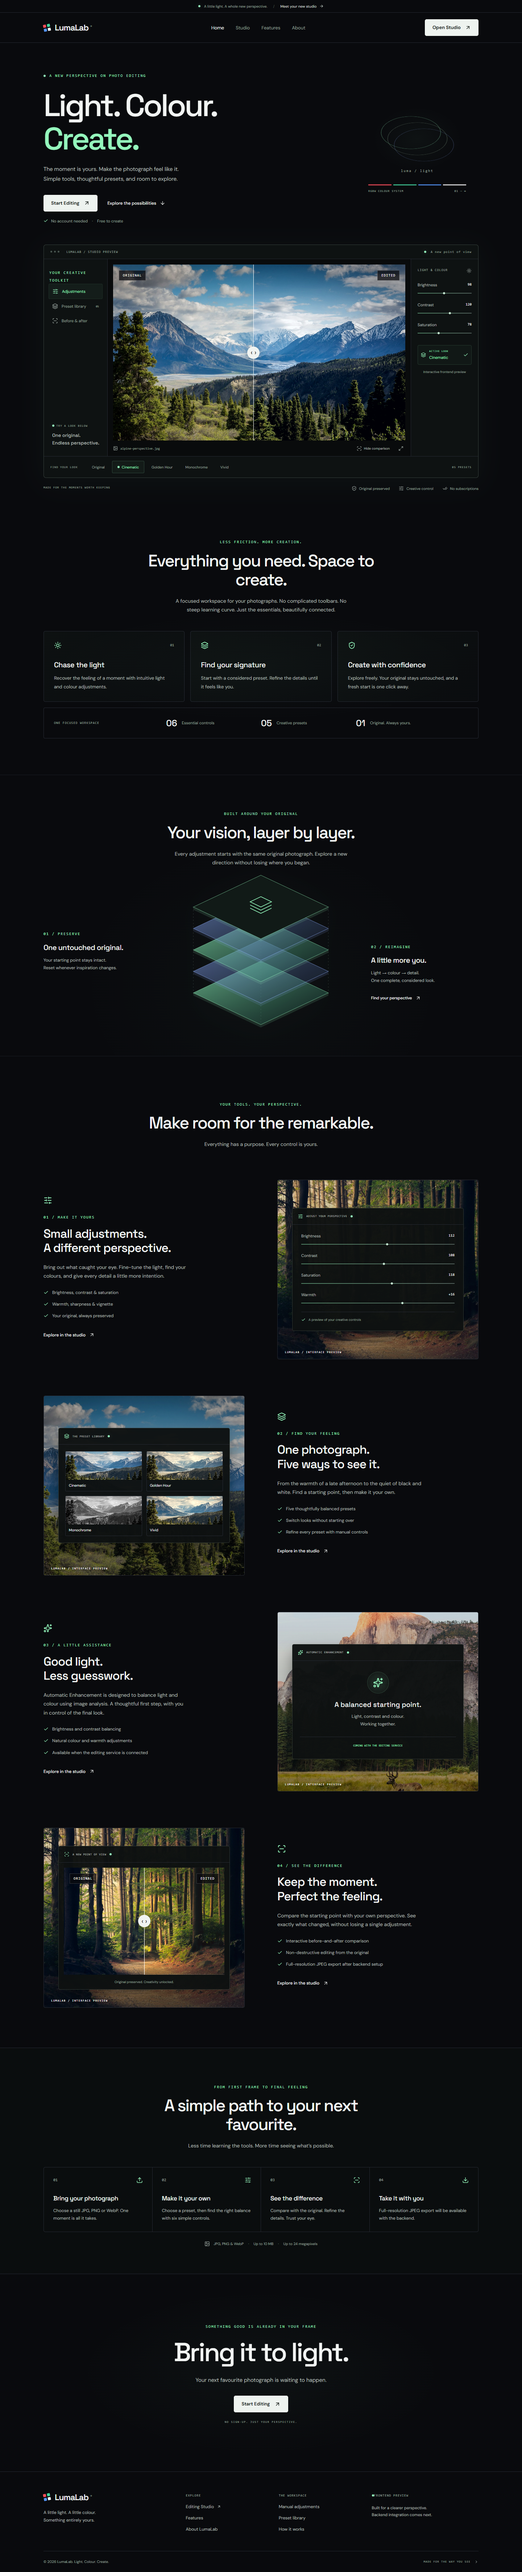
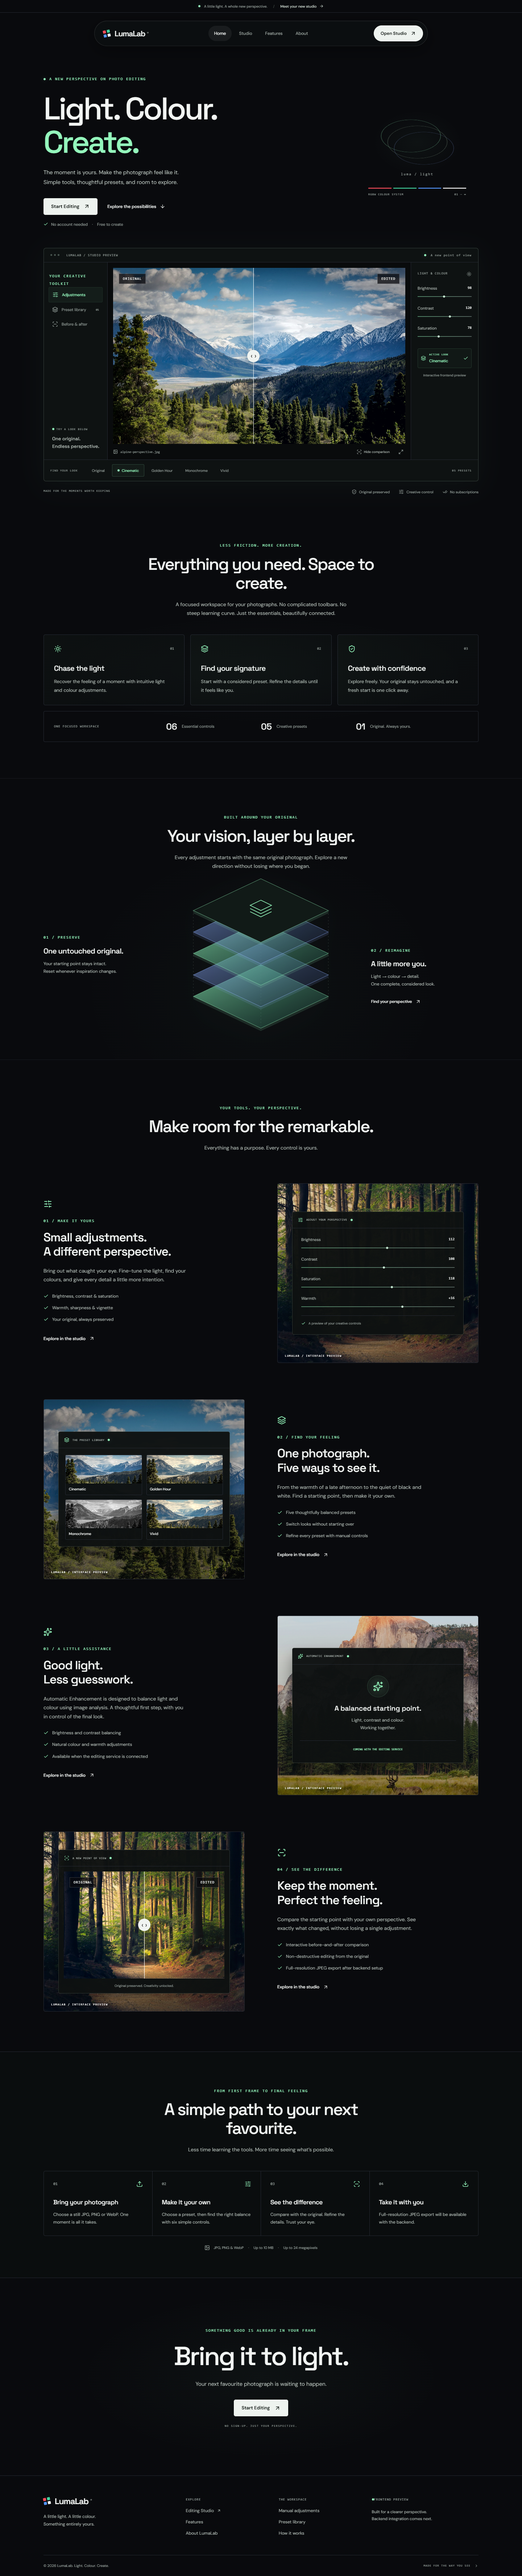
Navigation bar edited

diff --git a/src/components/Shared.module.css b/src/components/Shared.module.css
@@ -1,5 +1,94 @@
 .brand{display:inline-flex;align-items:center;gap:10px;font:600 23px var(--font-heading);letter-spacing:-1px;color:var(--text);white-space:nowrap}.brandDot{font:10px var(--font-body);align-self:flex-start;margin-top:6px;margin-left:-5px;color:var(--muted)}.mark{display:grid;grid-template-columns:repeat(2,8px);gap:3px;transform:rotate(-12deg);margin-right:2px}.mark i{height:8px;border-radius:1px;background:var(--red)}.mark i:nth-child(2){background:var(--green)}.mark i:nth-child(3){background:var(--blue)}.mark i:nth-child(4){background:#fff}
-.header{border-bottom:1px solid var(--border);position:relative;z-index:10}.headerInner{display:flex;align-items:center;justify-content:space-between;min-height:82px;gap:24px}.nav{display:flex;gap:32px;font-size:13px}.nav a{color:var(--muted)}.nav a:hover,.nav a[aria-current=page]{color:var(--text)}.menu,.mobileCta{display:none!important}
+.header {
+  position: sticky;
+  top: max(16px, env(safe-area-inset-top));
+  z-index: 30;
+  width: min(calc(100% - 32px), 920px);
+  margin: 22px auto 0;
+  border: 1px solid #ffffff1a;
+  border-radius: 999px;
+  background: #0b0e10ed;
+  box-shadow: 0 12px 40px #0005, inset 0 1px 0 #ffffff08;
+  -webkit-backdrop-filter: blur(24px) saturate(140%);
+  backdrop-filter: blur(24px) saturate(140%);
+  transition: width 280ms cubic-bezier(.22,1,.36,1), border-radius 220ms ease, background 220ms ease, box-shadow 220ms ease;
+}
+.headerScrolled {
+  width: min(calc(100% - 32px), 860px);
+  background: #080a0cf5;
+  box-shadow: 0 12px 40px #0008, inset 0 1px 0 #ffffff0a;
+}
+.headerInner {
+  display: flex;
+  align-items: center;
+  justify-content: space-between;
+  min-height: 68px;
+  padding: 10px 12px 10px 24px;
+  gap: 22px;
+}
+.header .brand { font-size: 21px; }
+.nav { display: flex; align-items: center; gap: 4px; font-size: 12px; }
+.nav a {
+  display: inline-flex;
+  align-items: center;
+  justify-content: center;
+  min-height: 42px;
+  padding: 10px 16px;
+  border-radius: 999px;
+  color: #aab4ae;
+  transition: color 160ms ease, background 160ms ease;
+}
+.nav a:hover { color: var(--text); background: #ffffff08; }
+.nav a[aria-current] { color: var(--text); background: #ffffff0f; }
+.header .headerCta { border-radius: 999px; min-height: 44px; padding: 11px 18px; font-size: 12px; gap: 10px; }
+.header a:focus-visible, .menu:focus-visible { outline-offset: 3px; }
+.menu, .nav .mobileCta { display: none; }
 .photo{position:relative;isolation:isolate;background:white;width:100%;overflow:hidden;line-height:0}.photoBase{display:block;width:100%;height:auto;position:relative}.photoEdited{position:absolute;inset:0;background:white}.photoEdited img{width:100%;height:100%;object-fit:fill}.vignette{position:absolute;inset:0;background:radial-gradient(ellipse at center,transparent 27%,rgba(0,0,0,.9) 100%);pointer-events:none}.filterDefs{position:absolute;width:0;height:0}.beforeLabel,.afterLabel{position:absolute;top:16px;left:16px;font:10px var(--font-mono);letter-spacing:1px;background:#090a0dbd;line-height:1;padding:8px 10px;border:1px solid #ffffff30;z-index:2}.afterLabel{left:auto;right:16px}.splitLine{position:absolute;top:0;bottom:0;width:1px;background:#fff;pointer-events:none;z-index:2}.splitLine span{position:absolute;left:50%;top:50%;transform:translate(-50%,-50%);border-radius:50%;width:34px;height:34px;display:grid;place-items:center;background:#f0f4f1;color:#111;font:19px var(--font-body);box-shadow:0 3px 20px #0005}.compareRange{appearance:none;position:absolute;inset:0;width:100%;height:100%;margin:0;opacity:0;cursor:ew-resize;z-index:3}.photo:has(.compareRange:focus-visible){outline:3px solid var(--mint);outline-offset:4px}
-@media(max-width:1023px){.menu{display:inline-flex!important}.headerCta{margin-left:auto}.nav{display:none;position:absolute;top:100%;left:0;right:0;background:var(--panel);padding:24px var(--gutter);border-bottom:1px solid var(--border);flex-direction:column;gap:0;box-shadow:0 20px 30px #0007}.nav a{padding:13px 0}.nav.open{display:flex}.mobileCta{display:flex!important;align-items:center;gap:10px}.headerInner{min-height:72px}}
-@media(max-width:479px){.headerCta{display:none}.headerInner{min-height:66px}.brand{font-size:21px}}
+@media(max-width:1023px) {
+  .header, .headerScrolled { width: min(calc(100% - 32px), 600px); }
+  .headerOpen { border-radius: 30px; }
+  .headerInner { flex-wrap: wrap; gap: 0 12px; padding: 10px 12px 10px 22px; min-height: 66px; }
+  .headerCta { margin-left: auto; }
+  .menu {
+    display: flex;
+    flex-direction: column;
+    align-items: center;
+    justify-content: center;
+    gap: 5px;
+    width: 44px;
+    height: 44px;
+    padding: 0;
+    border-radius: 50%;
+    border: 1px solid #ffffff1a;
+    background: #ffffff07;
+    color: var(--text);
+  }
+  .menu:hover { background: #ffffff12; }
+  .menu span { width: 16px; height: 1.5px; background: currentColor; border-radius: 2px; transition: transform 200ms ease; }
+  .menu[aria-expanded=true] span:first-child { transform: translateY(3.25px) rotate(45deg); }
+  .menu[aria-expanded=true] span:last-child { transform: translateY(-3.25px) rotate(-45deg); }
+  .nav { display: none; order: 4; flex-basis: 100%; }
+  .nav.open {
+    display: flex;
+    flex-direction: column;
+    align-items: stretch;
+    gap: 5px;
+    margin-top: 12px;
+    padding: 12px 4px 6px 0;
+    border-top: 1px solid #ffffff12;
+    max-height: calc(100dvh - 120px - env(safe-area-inset-top));
+    overflow-y: auto;
+    animation: menu-reveal 200ms ease-out;
+  }
+  .nav a { justify-content: flex-start; min-height: 46px; padding: 12px 18px; font-size: 14px; border-radius: 16px; }
+  .nav .mobileCta { display: flex; justify-content: space-between; margin-top: 8px; background: var(--text); color: #101713; }
+  .nav .mobileCta:hover { background: var(--mint); }
+}
+@media(max-width:479px) {
+  .header { margin-top: 16px; top: max(12px, env(safe-area-inset-top)); }
+  .headerCta { display: none !important; }
+  .headerInner { min-height: 64px; padding-left: 20px; }
+  .menu { margin-left: auto; }
+  .brand, .header .brand { font-size: 21px; }
+}
+@keyframes menu-reveal { from { opacity: 0; transform: translateY(-5px); } to { opacity: 1; transform: translateY(0); } }

diff --git a/src/components/Header.tsx b/src/components/Header.tsx
@@ -1,19 +1,54 @@
-import { useRef, useState } from 'react'
-import { Link } from '@tanstack/react-router'
-import { ArrowUpRight, Menu, X } from 'lucide-react'
+import { useEffect, useRef, useState } from 'react'
+import { Link, useLocation } from '@tanstack/react-router'
+import { ArrowUpRight } from 'lucide-react'
 import { Brand } from './Brand'
 import styles from './Shared.module.css'
 export function Header() {
   const [open, setOpen] = useState(false)
+  const [scrolled, setScrolled] = useState(false)
+  const hash = useLocation({ select: location => location.hash })
   const trigger = useRef<HTMLButtonElement>(null)
-  return <header className={styles.header} onKeyDown={e => { if (e.key === 'Escape' && open) { setOpen(false); trigger.current?.focus() } }}>
-    <div className={`container ${styles.headerInner}`}><Brand />
+  const header = useRef<HTMLElement>(null)
+
+  useEffect(() => {
+    const updateScroll = () => setScrolled(window.scrollY > 48)
+    const desktop = window.matchMedia('(min-width: 1024px)')
+    const closeOnDesktop = () => { if (desktop.matches) setOpen(false) }
+    updateScroll()
+    window.addEventListener('scroll', updateScroll, { passive: true })
+    desktop.addEventListener('change', closeOnDesktop)
+    return () => {
+      window.removeEventListener('scroll', updateScroll)
+      desktop.removeEventListener('change', closeOnDesktop)
+    }
+  }, [])
+
+  useEffect(() => {
+    if (!open) return
+    const closeOutside = (event: PointerEvent) => {
+      if (event.target instanceof Node && !header.current?.contains(event.target)) setOpen(false)
+    }
+    document.addEventListener('pointerdown', closeOutside)
+    return () => document.removeEventListener('pointerdown', closeOutside)
+  }, [open])
+
+  return <header ref={header} className={`${styles.header} ${open ? styles.headerOpen : ''} ${scrolled ? styles.headerScrolled : ''}`}
+    onKeyDown={event => {
+      if (event.key === 'Escape' && open) { setOpen(false); trigger.current?.focus() }
+    }}
+    onBlur={event => {
+      if (event.relatedTarget instanceof Node && !event.currentTarget.contains(event.relatedTarget)) setOpen(false)
+    }}>
+    <div className={styles.headerInner}><Brand />
       <nav className={`${styles.nav} ${open ? styles.open : ''}`} id="site-nav" aria-label="Main navigation">
-        <Link to="/" onClick={() => setOpen(false)}>Home</Link><Link to="/studio">Studio</Link><a href="#features" onClick={() => setOpen(false)}>Features</a><a href="#about" onClick={() => setOpen(false)}>About</a>
-        <Link to="/studio" className={styles.mobileCta}>Open Studio <ArrowUpRight size={16} /></Link>
+        <Link to="/" activeOptions={{ exact: true, includeHash: true }} onClick={() => setOpen(false)}>Home</Link>
+        <Link to="/studio" onClick={() => setOpen(false)}>Studio</Link>
+        <a href="#features" aria-current={hash === 'features' ? 'location' : undefined} onClick={() => setOpen(false)}>Features</a>
+        <a href="#about" aria-current={hash === 'about' ? 'location' : undefined} onClick={() => setOpen(false)}>About</a>
+        <Link to="/studio" className={styles.mobileCta} onClick={() => setOpen(false)}>Open Studio <ArrowUpRight size={16} /></Link>
       </nav>
       <Link to="/studio" className={`button primary ${styles.headerCta}`}>Open Studio <ArrowUpRight size={16} /></Link>
-      <button ref={trigger} className={`icon-button ${styles.menu}`} onClick={() => setOpen(!open)} aria-label={open ? 'Close menu' : 'Open menu'} aria-expanded={open} aria-controls="site-nav">{open ? <X /> : <Menu />}</button>
+      <button ref={trigger} className={styles.menu} onClick={() => setOpen(!open)} aria-label={open ? 'Close menu' : 'Open menu'} aria-expanded={open} aria-controls="site-nav"><span /><span /></button>
     </div>
   </header>
 }

diff --git a/src/styles/global.css b/src/styles/global.css
@@ -1,3 +1,4 @@
 :root{font-family:'DM Sans',sans-serif;color:#f2f5f3;background:#090a0d;font-synthesis:none;text-rendering:optimizeLegibility;-webkit-font-smoothing:antialiased;color-scheme:dark;--font-body:'DM Sans',Arial,sans-serif;--font-heading:'Space Grotesk',Arial,sans-serif;--font-mono:'SFMono-Regular',Consolas,monospace;--bg:#090a0d;--panel:#111318;--panel-raised:#161a1d;--border:#252932;--text:#f2f5f3;--body:#b3bdb7;--muted:#99a49f;--mint:#94f7bc;--red:#ff4e5b;--green:#42d6a0;--blue:#5598ff;--gutter:16px}
 *{box-sizing:border-box}body{margin:0;min-width:320px}button,input,select{font:inherit}button,a,input{-webkit-tap-highlight-color:transparent}button,a{touch-action:manipulation}button{cursor:pointer}button:disabled{cursor:not-allowed;opacity:.45}a{color:inherit;text-decoration:none}svg{flex-shrink:0;max-width:100%}img{max-width:100%}h1,h2,h3,h4,p{margin:0}h1,h2,h3,h4{font-family:var(--font-heading);font-weight:500}h1{letter-spacing:-.055em;line-height:1.07}h2{font-size:clamp(32px,3.5vw,46px);letter-spacing:-.045em;line-height:1.13}h3{letter-spacing:-.025em}p{color:var(--body);font-size:15px;line-height:1.75}button{border:0}::selection{background:#94f7bc40;color:white}:focus-visible{outline:2px solid var(--mint);outline-offset:5px}html{scroll-behavior:smooth}section[id]{scroll-margin-top:30px}.container{width:min(calc(100% - var(--gutter)*2),1200px);margin-inline:auto}.button{display:inline-flex;align-items:center;justify-content:center;gap:12px;padding:13px 20px;min-height:46px;border-radius:5px;font-size:13px;font-weight:600;line-height:1.4;border:1px solid var(--border);transition:background .16s,border-color .16s;background:transparent;color:var(--text)}.button.primary{background:#eef3ef;border-color:#eef3ef;color:#101713}.button.primary:hover{background:var(--mint);border-color:var(--mint)}.button.secondary:hover{background:var(--panel-raised);border-color:#65736c}.button.mint{background:var(--mint);color:#0d2014;border-color:var(--mint)}.button.mint:hover{background:#b0ffce}.icon-button{display:inline-flex;align-items:center;justify-content:center;width:44px;height:44px;border:1px solid var(--border);border-radius:4px;background:transparent;color:var(--body)}.icon-button:hover{color:var(--text);background:var(--panel-raised)}.eyebrow{font:11px/1.6 var(--font-mono);letter-spacing:1.8px;color:var(--mint);text-transform:uppercase}.status-dot{width:6px;height:6px;background:var(--mint);border-radius:50%;display:inline-block;box-shadow:0 0 10px #94f7bc35}.skip-link{position:fixed;top:10px;left:10px;transform:translateY(-200%);z-index:100;background:var(--mint);color:#111;padding:12px}.skip-link:focus{transform:translateY(0)}.route-error{max-width:650px;margin:20vh auto;padding:24px}.route-error h1{font-size:40px;margin:20px 0}.route-error .button{margin-top:24px}.sr-only{position:absolute;width:1px;height:1px;overflow:hidden;clip:rect(0,0,0,0);white-space:nowrap}
+html { scroll-padding-top: 110px; }
 @media(min-width:480px){:root{--gutter:24px}}@media(min-width:768px){:root{--gutter:32px}}@media(min-width:1024px){:root{--gutter:40px}}@media(min-width:1440px){:root{--gutter:48px}}@media(prefers-reduced-motion:reduce){html{scroll-behavior:auto}*,*::before,*::after{animation:none!important;transition:none!important}}

diff --git a/src/pages/Home.tsx b/src/pages/Home.tsx
@@ -23,7 +23,7 @@ export function Home() {
   const [compare, setCompare] = useState(true)
   const [split, setSplit] = useState(48)
   return <>
-    <div className={styles.announcement}><span className="status-dot" /> A little light. A whole new perspective. <span className={styles.announcementDivider}>/</span><Link to="/studio">Meet your new studio <ArrowRight size={12} /></Link></div>
+    {/* <div className={styles.announcement}><span className="status-dot" /> A little light. A whole new perspective. <span className={styles.announcementDivider}>/</span><Link to="/studio">Meet your new studio <ArrowRight size={12} /></Link></div> */}
     <Header />
     <main id="main">
       <section className={`container ${styles.hero}`}>
